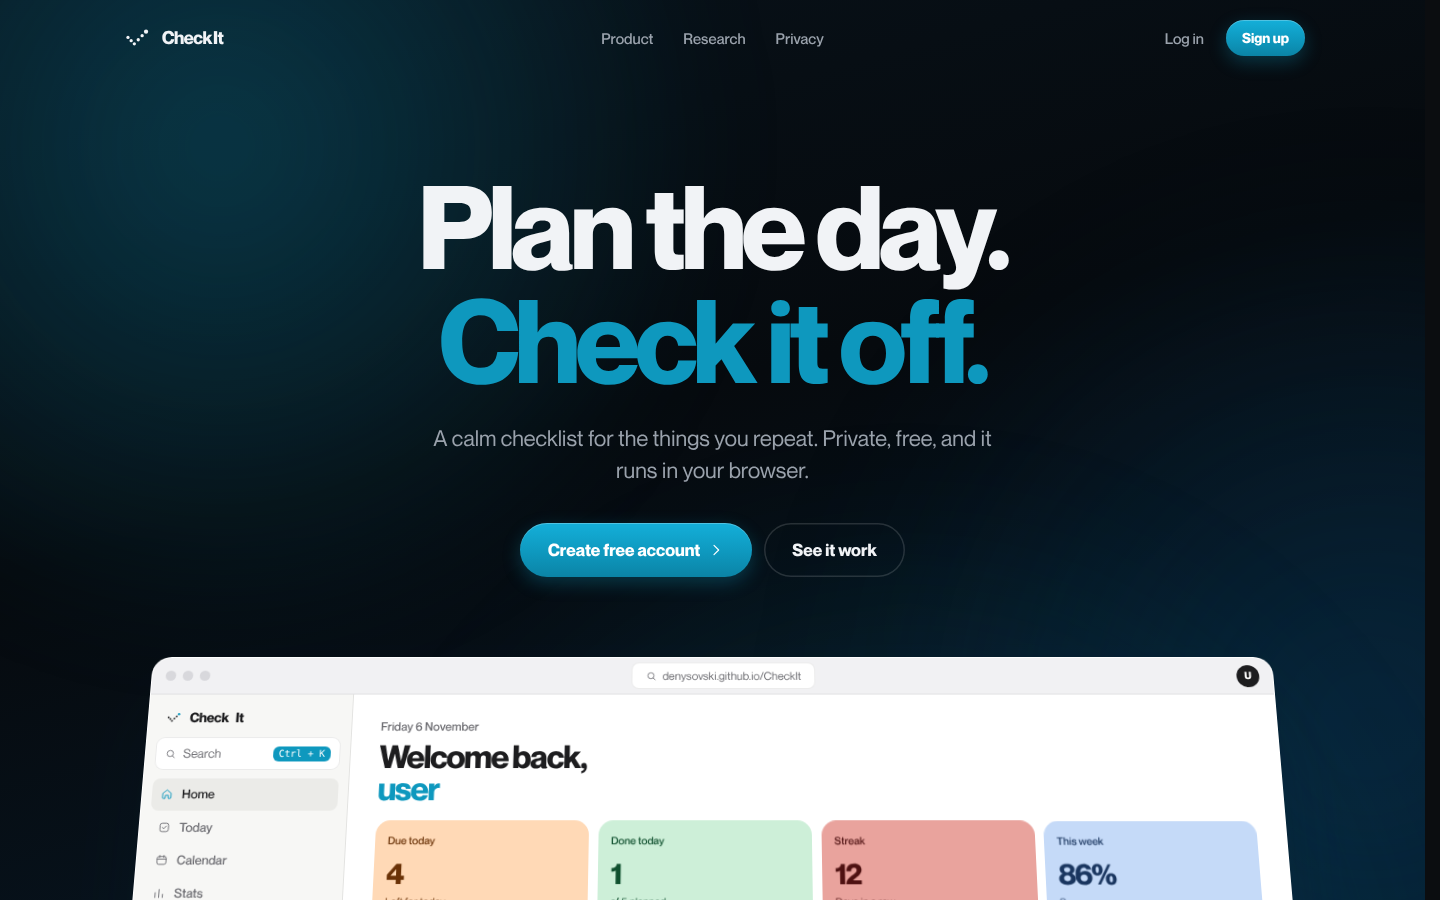
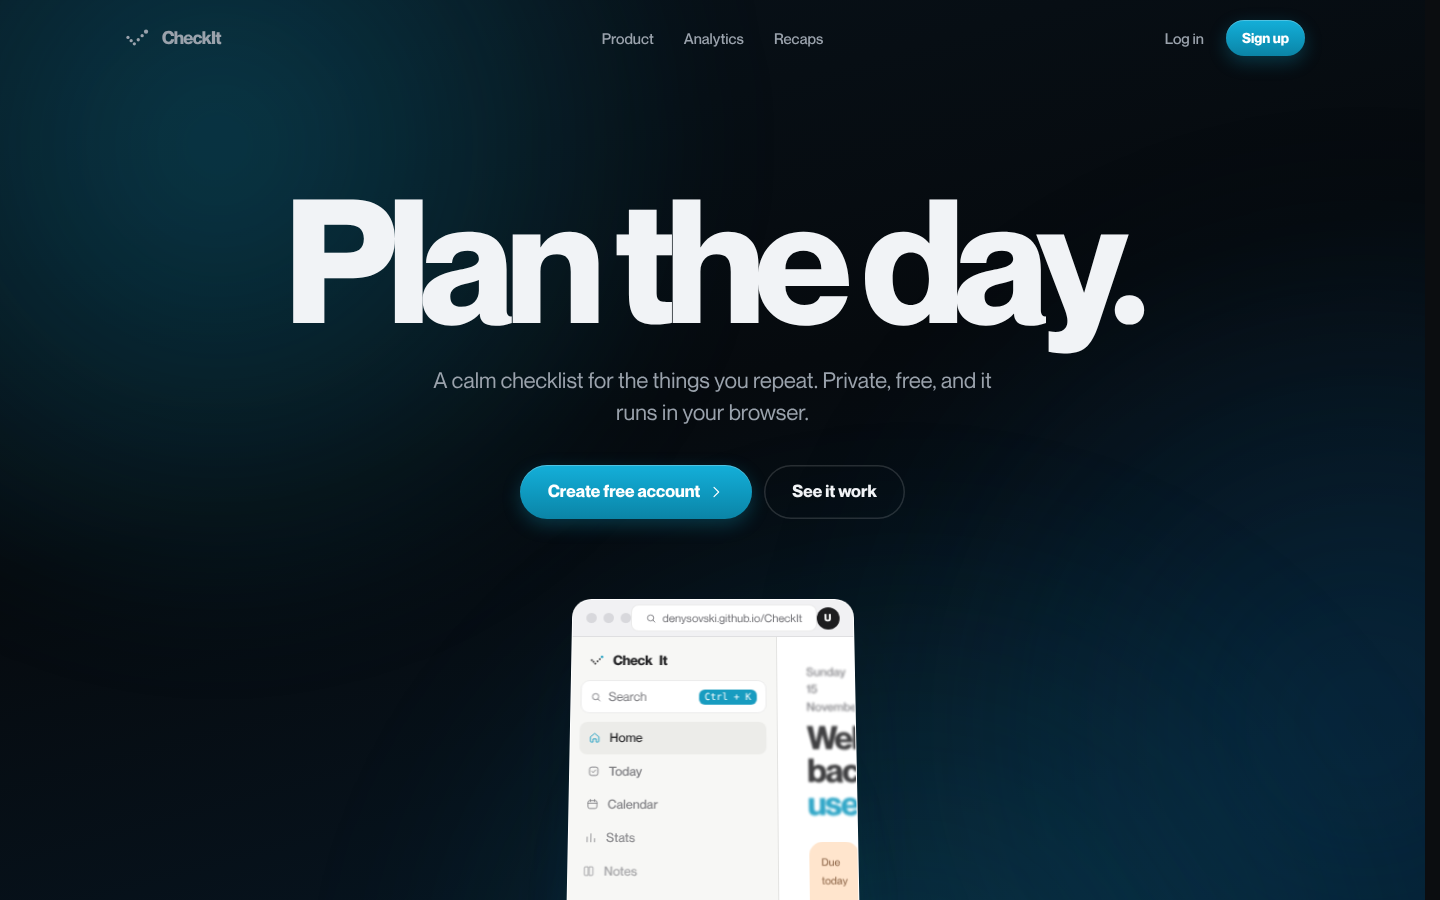
Landing: one headline, glowing demo, analytics and recap sections
- 'Plan the day.' as the only, much larger headline.
- Moving light around the live demo; the demo caption is now large,
  white and left-aligned under it.
- 'A week you can see.' bigger, with an Open the dashboard button.
- New: animated analytics donut (completed / still open / forgotten)
  and a wide 'recap every Monday' band with a 3D recap card.
- Removed research, privacy and final CTA sections and the footer
  wordmark. Back-to-top button. Wheel over the tilted cards now scrolls
  with Lenis. Nav returns to the top in stages over about a second.

Claude-Session: https://claude.ai/code/session_01Tmbk2fb3fpLgrpmgcPJTdW

Changed region(s): [[0.0938, 0.1867, 0.9062, 1.0], [0.4688, 0.0311, 0.5625, 0.0622], [0.0938, 0.0311, 0.1562, 0.0622]]

diff --git a/css/style.css b/css/style.css
@@ -3404,3 +3404,119 @@ html.sb-collapsed .sb-first-wrap { opacity: 0; pointer-events: none; }
 .journal .gx { --ink-2: rgba(255, 255, 255, .95); --ink-3: rgba(255, 255, 255, .88); }
 .journal .gx :is(.muted, .small, small, .j-label, .j-meter span, #j-save, .card-head span, .js-kpis span, .mc-col > span, .j-avg, .j-words-label, label > span) { color: #fff !important; opacity: 1; }
 .journal .gx .js-kpis b, .journal .gx .num { color: #fff !important; }
+
+/* =====================================================================
+   landing v3: one big headline, glowing demo, analytics + recaps
+   ===================================================================== */
+.lx-title { font-size: clamp(64px, 12vw, 176px) !important; line-height: .92 !important; letter-spacing: -.055em !important; }
+.lx-hero { padding-top: 180px; }
+
+/* moving light around the live demo */
+@property --ga2 { syntax: '<angle>'; inherits: false; initial-value: 0deg; }
+.lx-demo-glow { position: relative; max-width: max-content; margin: 0 auto; border-radius: 26px; isolation: isolate; }
+.lx-demo-glow::before { content: ""; position: absolute; inset: -3px; border-radius: 28px; z-index: -1;
+  background: conic-gradient(from var(--ga2), transparent 0deg, rgba(18, 170, 212, 0) 40deg, #12AAD4 90deg, #7FDDF5 120deg, rgba(18, 170, 212, 0) 170deg, transparent 360deg);
+  animation: demoRing 5s linear infinite; }
+.lx-demo-glow::after { content: ""; position: absolute; inset: -40px; border-radius: 60px; z-index: -2; pointer-events: none;
+  background: radial-gradient(60% 50% at 50% 50%, rgba(18, 170, 212, .32), transparent 70%); filter: blur(30px); animation: demoPulse 3.2s ease-in-out infinite; }
+@keyframes demoRing { to { --ga2: 360deg; } }
+@keyframes demoPulse { 0%, 100% { opacity: .45; transform: scale(.98); } 50% { opacity: .9; transform: scale(1.02); } }
+.lx-demo-glow .demo { margin: 0 !important; }
+.lx-caption, .lx-final, .lx-research, .lx-privacy, .lx-features, .lx-wordmark { display: none !important; }
+.lx-caption-big { max-width: 1200px; margin: 46px auto 0; padding: 0 24px; text-align: left; font-family: var(--display); font-weight: 700; letter-spacing: -.035em;
+  font-size: clamp(30px, 4.2vw, 56px); line-height: 1.05; color: #fff; }
+.lx-caption-big span { color: rgba(255, 255, 255, .5); }
+:root:not([data-theme="dark"]) .lx-caption-big { color: #0B0D10; }
+:root:not([data-theme="dark"]) .lx-caption-big span { color: #7A8590; }
+
+/* bigger section headings + button under copy */
+.lx-h2.big { font-size: clamp(44px, 6vw, 84px); }
+.lx-copy p { font-size: 21px; }
+.lx-copy-btn { margin-top: 30px; }
+.lx-split.rev { grid-template-columns: minmax(0, 1fr) minmax(0, 1fr); }
+
+/* analytics donut */
+.lx-donut-wrap { display: grid; place-items: center; padding: 40px 0; }
+.lx-donut { position: relative; width: min(360px, 78vw); aspect-ratio: 1; }
+.lx-donut svg { width: 100%; height: 100%; overflow: visible; }
+.dn-arc { opacity: 0; transition: opacity .6s var(--ease-out) var(--d), stroke-dasharray 1.2s var(--ease-out) var(--d); }
+.lx-donut.in .dn-arc { opacity: 1; }
+.dn-center { position: absolute; inset: 0; display: grid; place-content: center; text-align: center; }
+.dn-center b { font-family: var(--display); font-size: 64px; font-weight: 700; letter-spacing: -.05em; line-height: 1; color: var(--ink); }
+.dn-center span { color: var(--ink-2); font-size: 15px; }
+.dn-label { position: absolute; display: grid; grid-template-columns: auto auto; column-gap: 8px; align-items: center; padding: 10px 14px; border-radius: 16px; white-space: nowrap;
+  background: color-mix(in srgb, var(--ink) 6%, transparent); -webkit-backdrop-filter: blur(10px); backdrop-filter: blur(10px); opacity: 0; transform: translateY(8px); transition: opacity .6s var(--ease-out), transform .6s var(--ease-out); }
+.lx-donut.in .dn-label { opacity: 1; transform: none; }
+.lx-donut.in .dn-label.l2 { transition-delay: .25s; } .lx-donut.in .dn-label.l3 { transition-delay: .5s; }
+.dn-label i { grid-row: span 2; width: 10px; height: 10px; border-radius: 50%; }
+.dn-label b { font-family: var(--display); font-size: 22px; letter-spacing: -.03em; color: var(--ink); line-height: 1; }
+.dn-label span { font-size: 13px; color: var(--ink-2); grid-column: 2; }
+.dn-label::before { content: ""; position: absolute; height: 1px; width: 46px; background: color-mix(in srgb, var(--ink) 30%, transparent); top: 50%; }
+.dn-label.l1 { right: -46%; top: 18%; } .dn-label.l1::before { left: -46px; }
+.dn-label.l2 { left: -44%; bottom: 14%; } .dn-label.l2::before { right: -46px; }
+.dn-label.l3 { left: -40%; top: 8%; } .dn-label.l3::before { right: -46px; }
+.lx-points { list-style: none; padding: 0; margin: 28px 0 0; display: grid; gap: 12px; }
+.lx-points li { display: flex; flex-direction: column; padding: 14px 18px; border-radius: 16px; background: color-mix(in srgb, var(--ink) 5%, transparent); }
+.lx-points b { font-weight: 600; color: var(--ink); }
+.lx-points span { color: var(--ink-2); font-size: 15px; }
+
+/* recaps: wide band with a 3D recap card */
+.lx-recap-wide { max-width: 1200px; margin: 0 auto; padding: 60px; border-radius: 40px; display: grid; grid-template-columns: minmax(0, 1fr) minmax(0, 1fr); gap: 40px; align-items: center;
+  background: linear-gradient(150deg, rgba(6, 9, 12, .7) 0%, rgba(10, 34, 51, .8) 50%, rgba(8, 58, 91, .85) 100%); box-shadow: 0 40px 90px -40px rgba(3, 20, 32, .8); }
+.lx-recap-wide .lx-h2, .lx-recap-wide .lx-copy p { color: #fff; }
+.lx-recap-wide .lx-copy p { color: rgba(255, 255, 255, .72); }
+.rc3 { width: 440px; max-width: 100%; padding: 28px; border-radius: 32px; color: #0B0D10; background: #fff; transform: rotateX(var(--rx)) rotateY(var(--ry)) rotateZ(-5deg); transform-style: preserve-3d;
+  transition: transform .6s var(--ease-out); box-shadow: 40px 50px 90px -30px rgba(0, 0, 0, .6); }
+.lx-tilt-b { --rx: 10deg; --ry: 22deg; }
+.lx-tilt-b:hover .rc3 { transition: transform .15s linear; }
+.rc3-top { display: flex; justify-content: space-between; font-weight: 600; } .rc3-top em { font-style: normal; color: #7A8590; font-weight: 500; }
+.rc3-hero { margin: 18px 0; } .rc3-hero b { font-family: var(--display); font-size: 84px; font-weight: 700; letter-spacing: -.05em; line-height: 1; color: #0B6F95; }
+.rc3-hero b small { font-size: .45em; } .rc3-hero span { display: block; color: #5B6470; }
+.rc3-grid { display: grid; grid-template-columns: 1fr 1fr; gap: 8px; }
+.rc3-grid div { padding: 12px; border-radius: 14px; background: #F1F5F8; }
+.rc3-grid span { display: block; font-size: 12px; color: #7A8590; } .rc3-grid b { font-weight: 600; font-size: 14.5px; }
+.rc3-grid .good { background: #E3F6FB; } .rc3-grid .good b { color: #0B6F95; }
+.rc3-grid .bad { background: #FDEDEA; } .rc3-grid .bad b { color: #C9483D; }
+.rc3-tip { margin: 14px 0 0; padding: 12px 14px; border-radius: 14px; background: linear-gradient(135deg, #0B6F95, #083A5B); color: #fff; font-size: 14px; }
+.lx-recap-wide .rc3 { animation: rcFloat 6s ease-in-out infinite; }
+@keyframes rcFloat { 50% { translate: 0 -10px; } }
+
+/* back to top */
+.lx-top { position: fixed; right: 24px; bottom: 24px; z-index: 70; width: 52px; height: 52px; border-radius: 50%; display: grid; place-items: center; color: #fff;
+  background: linear-gradient(180deg, #14AFD9, #0B84A6); box-shadow: 0 12px 30px -8px rgba(14, 152, 190, .55); opacity: 0; transform: translateY(16px); pointer-events: none;
+  transition: opacity .45s var(--ease-out), transform .45s var(--ease-out), box-shadow .35s var(--ease-out); }
+.lx-top.on { opacity: 1; transform: none; pointer-events: auto; }
+.lx-top:hover { box-shadow: 0 0 0 6px rgba(14, 152, 190, .18), 0 12px 30px -8px rgba(14, 152, 190, .55); }
+
+/* nav: slow, staged return to the top (bg + colour first, then it widens) */
+.lx .l-nav { transition:
+  background-color .35s ease-out 0s, box-shadow .35s ease-out 0s,
+  top .65s cubic-bezier(.65,0,.35,1) .35s, left .65s cubic-bezier(.65,0,.35,1) .35s, right .65s cubic-bezier(.65,0,.35,1) .35s,
+  height .65s cubic-bezier(.65,0,.35,1) .35s, padding .65s cubic-bezier(.65,0,.35,1) .35s, border-radius .65s cubic-bezier(.65,0,.35,1) .35s !important; }
+.lx .l-nav.scrolled { transition:
+  top .55s cubic-bezier(.65,0,.35,1) 0s, left .55s cubic-bezier(.65,0,.35,1) 0s, right .55s cubic-bezier(.65,0,.35,1) 0s,
+  height .55s cubic-bezier(.65,0,.35,1) 0s, padding .55s cubic-bezier(.65,0,.35,1) 0s, border-radius .55s cubic-bezier(.65,0,.35,1) 0s,
+  background-color .35s ease-out .3s, box-shadow .35s ease-out .3s !important; }
+.lx .l-nav .brand-word, .lx .l-nav .l-links a, .lx .l-nav .l-login { color: #9AA2AC !important; transition: color .35s ease-out; }
+.lx .l-nav .logo-svg .ld { fill: #9AA2AC; transition: fill .35s ease-out; }
+.lx .l-nav .l-links a:hover, .lx .l-nav .l-login:hover { color: #fff !important; }
+:root:not([data-theme="dark"]) .lx .l-nav .brand-word, :root:not([data-theme="dark"]) .lx .l-nav .l-links a, :root:not([data-theme="dark"]) .lx .l-nav .l-login { color: #5B6470 !important; }
+:root:not([data-theme="dark"]) .lx .l-nav .logo-svg .ld { fill: #5B6470; }
+.lx .l-nav.scrolled .brand-word, .lx .l-nav.scrolled .l-links a, .lx .l-nav.scrolled .l-login { color: #0B0D10 !important; }
+.lx .l-nav.scrolled .logo-svg .ld { fill: #0B0D10; }
+
+@media (max-width: 860px) {
+  .lx-split.rev, .lx-recap-wide { grid-template-columns: minmax(0, 1fr); }
+  .lx-recap-wide { padding: 32px 22px; border-radius: 30px; }
+  .lx-donut-wrap { padding: 60px 0 20px; }
+  .dn-label.l1 { right: -6%; top: -12%; } .dn-label.l2 { left: -4%; bottom: -14%; } .dn-label.l3 { left: -4%; top: -12%; }
+  .dn-label::before { display: none; }
+  .lx-caption-big { margin-top: 30px; }
+  .lx-top { right: 16px; bottom: 16px; }
+}
+@media (prefers-reduced-motion: reduce) { .lx-demo-glow::before, .lx-demo-glow::after, .lx-recap-wide .rc3 { animation: none; } }
+.lx-demo-glow { width: min(1100px, 100%); max-width: none; }
+.lx-demo-glow .demo { width: 100% !important; max-width: none !important; }
+.dn-label.l1 { right: -14%; top: -4%; } .dn-label.l1::before { display: none; }
+.dn-label.l3 { left: -24%; top: 10%; } .dn-label.l2 { left: -24%; bottom: 8%; }
+.lx-analytics .lx-split { gap: 90px; }

diff --git a/js/landing.js b/js/landing.js
@@ -207,6 +207,38 @@ function ownStats() {
   } catch { return null; }
 }
 
+// Analytics donut: three arcs with leader lines and labels.
+function donutHTML() {
+  const R = 120; const C = 2 * Math.PI * R;
+  const segs = [[69, 'Completed', '#12AAD4'], [30, 'Still open', '#7FDDF5'], [1, 'Forgotten', '#FF9C8F']];
+  let off = 0;
+  const arcs = segs.map(([p, , c], i) => { const len = (p / 100) * C; const a = `<circle class="dn-arc" style="--d:${i * 0.25}s" cx="160" cy="160" r="${R}" fill="none" stroke="${c}" stroke-width="34" stroke-dasharray="${Math.max(len - 4, 2)} ${C}" stroke-dashoffset="${-off}" transform="rotate(-90 160 160)"/>`; off += len; return a; }).join('');
+  return `
+    <div class="lx-donut">
+      <svg viewBox="0 0 320 320"><circle cx="160" cy="160" r="${R}" fill="none" stroke="rgba(255,255,255,.07)" stroke-width="34"/>${arcs}</svg>
+      <div class="dn-center"><b>69%</b><span>this week</span></div>
+      <div class="dn-label l1"><i style="background:#12AAD4"></i><b>69%</b><span>Completed</span></div>
+      <div class="dn-label l2"><i style="background:#7FDDF5"></i><b>30%</b><span>Still open</span></div>
+      <div class="dn-label l3"><i style="background:#FF9C8F"></i><b>1%</b><span>Forgotten</span></div>
+    </div>`;
+}
+
+// Weekly recap card (3D, follows the pointer like the week card).
+function recapCardHTML() {
+  return `
+    <div class="rc3" aria-hidden="true">
+      <div class="rc3-top"><span>Week 45 recap</span><em>2 – 8 Nov</em></div>
+      <div class="rc3-hero"><b>86<small>%</small></b><span>of planned tasks done</span></div>
+      <div class="rc3-grid">
+        <div><span>Best day</span><b>Thursday</b></div>
+        <div><span>Earliest finish</span><b>06:48</b></div>
+        <div class="good"><span>Went well</span><b>Brush teeth, 14 of 14</b></div>
+        <div class="bad"><span>Slipped</span><b>Gym, 1 of 3</b></div>
+      </div>
+      <p class="rc3-tip">Try next week: book gym for Tuesday at 17:00.</p>
+    </div>`;
+}
+
 export function legalLinks(cls = '') {
   return `<a class="${cls}" href="#/privacy">Privacy</a><a class="${cls}" href="#/terms">Terms</a><a class="${cls}" href="#/cookies">Cookies</a>`;
 }
@@ -237,7 +269,6 @@ function footerHTML() {
           <div><h4>Social</h4>${SOCIAL.map(([n, u]) => `<a href="${u}" target="_blank" rel="noopener noreferrer">${n}</a>`).join('')}</div>
         </nav>
       </div>
-      <div class="lx-wordmark" aria-hidden="true">Check It</div>
       <div class="lx-foot-bottom">
         <span>© 2026 Check It. Designed and built by <a href="https://github.com/denysovski" target="_blank" rel="noopener noreferrer">denysovski</a>.</span>
         <span>A personal school project, not a commercial product.</span>
@@ -263,18 +294,17 @@ export function renderLanding({ loggedIn = false } = {}) {
   document.documentElement.classList.add('is-landing');
   const app = $('#app');
   const cta = loggedIn ? ['#/home', 'Open dashboard'] : ['#/signup', 'Create free account'];
-  const own = ownStats();
   app.innerHTML = `
   <div class="landing lx">
     <div class="lx-bg" aria-hidden="true"><i></i><i></i><i></i></div>
     <header class="l-nav">
       <a class="brand" href="#/" aria-label="Check It home"><span class="brand-mark">${logoMark('plain')}</span><span class="brand-word">Check<b>It</b></span></a>
-      <nav class="l-links" aria-label="Sections"><a href="#how" data-scroll>Product</a><a href="#research" data-scroll>Research</a><a href="#privacy" data-scroll>Privacy</a></nav>
+      <nav class="l-links" aria-label="Sections"><a href="#how" data-scroll>Product</a><a href="#analytics" data-scroll>Analytics</a><a href="#recaps" data-scroll>Recaps</a></nav>
       <div class="l-nav-actions">${loggedIn ? `<a class="btn pill small" href="#/home">Open dashboard</a>` : `<a class="l-login" href="#/login">Log in</a><a class="btn pill small" href="#/signup">Sign up</a>`}</div>
     </header>
 
     <section class="lx-hero">
-      <h1 class="lx-title">Plan the day.<br><span>Check it off.</span></h1>
+      <h1 class="lx-title">Plan the day.</h1>
       <p class="lx-sub">A calm checklist for the things you repeat. Private, free, and it runs in your browser.</p>
       <div class="lx-cta">
         <a class="btn pill large" href="${cta[0]}">${cta[1]} ${icon('chevR', 16)}</a>
@@ -283,46 +313,44 @@ export function renderLanding({ loggedIn = false } = {}) {
     </section>
 
     <section class="lx-stage" id="how" aria-label="Live product demo">
-      ${demoHTML()}
-      <p class="lx-caption">The real app, running on its own. Nothing here is a mock-up.</p>
+      <div class="lx-demo-glow">${demoHTML()}</div>
+      <p class="lx-caption-big">The real app, running on its own.<br><span>Nothing here is a mock-up.</span></p>
     </section>
 
     <section class="lx-band">
       <div class="lx-split">
         <div class="lx-copy">
-          <h2 class="lx-h2">A week you can see.</h2>
+          <h2 class="lx-h2 big">A week you can see.</h2>
           <p>Every day you finish fills a ring. Close all seven and the week is checked.</p>
+          <a class="btn pill large lx-copy-btn" href="${loggedIn ? '#/home' : '#/signup'}">Open the dashboard ${icon('chevR', 16)}</a>
         </div>
         <div class="lx-tilt" id="lx-tilt">${checkCardHTML()}</div>
       </div>
     </section>
 
-    <section class="lx-research" id="research">
-      <h2 class="lx-h2">Why writing it down works.</h2>
-      <div class="lx-rows">
-        ${RESEARCH.map(([big, unit, text, cite, url]) => `
-          <div class="lx-row">
-            <div class="lx-num"><b>${big}</b><span>${unit}</span></div>
-            <p>${text}</p>
-            <a href="${url}" target="_blank" rel="noopener noreferrer" class="lx-cite">${cite} ${icon('external', 12)}</a>
-          </div>`).join('')}
+    <section class="lx-band lx-analytics" id="analytics">
+      <div class="lx-split rev">
+        <div class="lx-donut-wrap" aria-hidden="true">${donutHTML()}</div>
+        <div class="lx-copy">
+          <h2 class="lx-h2 big">Know how you’re doing.</h2>
+          <p>Check It counts what you finish, what is still open and what slipped. Streaks, best days and your usual finish time, all from your own history.</p>
+          <ul class="lx-points">
+            <li><b>Done vs. planned</b><span>for every day and week</span></li>
+            <li><b>Most skipped</b><span>so you can make a task smaller</span></li>
+            <li><b>Best day and time</b><span>to plan around what works</span></li>
+          </ul>
+        </div>
       </div>
     </section>
 
-    <section class="lx-privacy" id="privacy">
-      <h2 class="lx-h2">Your data stays with you.</h2>
-      <p>No servers, no tracking, no ads. Tasks, notes and history are saved in this browser. Export a backup any time.</p>
-      <div class="lx-facts">
-        <div><b>0</b><span>servers storing your data</span></div>
-        <div><b>0</b><span>trackers or ads</span></div>
-        ${own ? `<div><b>${own.done.toLocaleString('en-GB')}</b><span>tasks you checked off here</span></div>` : '<div><b>1</b><span>file to back it all up</span></div>'}
+    <section class="lx-band lx-recaps" id="recaps">
+      <div class="lx-recap-wide">
+        <div class="lx-copy">
+          <h2 class="lx-h2 big">A recap every Monday.</h2>
+          <p>When a week ends, Check It writes it up for you: what went well, what slipped and one thing to try next. Save it, download it, read it back months later.</p>
+        </div>
+        <div class="lx-tilt lx-tilt-b" id="lx-tilt-b">${recapCardHTML()}</div>
       </div>
-      <a class="lx-link" href="#/privacy">Read the privacy policy ${icon('chevR', 14)}</a>
-    </section>
-
-    <section class="lx-final">
-      <h2 class="lx-h2">Start with one task.</h2>
-      <a class="btn pill large" href="${cta[0]}">${cta[1]} ${icon('chevR', 16)}</a>
     </section>
 
     ${footerHTML()}
@@ -361,14 +389,32 @@ export function renderLanding({ loggedIn = false } = {}) {
   window.addEventListener('scroll', onScroll, { passive: true });
   disposers.push(() => window.removeEventListener('scroll', onScroll));
   paint();
-  if (tilt && !still) {
-    tilt.addEventListener('pointermove', (e) => {
-      const r = tilt.getBoundingClientRect();
+  // both 3D cards lean towards the pointer; wheel scrolling over them stays smooth (Lenis)
+  if (!still) $$('.lx-tilt', root).forEach((t) => {
+    t.addEventListener('pointermove', (e) => {
+      const r = t.getBoundingClientRect();
       const x = (e.clientX - r.left) / r.width - 0.5; const y = (e.clientY - r.top) / r.height - 0.5;
-      tilt.style.setProperty('--ry', `${-24 + x * 26}deg`); tilt.style.setProperty('--rx', `${8 - y * 22}deg`);
+      t.style.setProperty('--ry', `${-24 + x * 26}deg`); t.style.setProperty('--rx', `${8 - y * 22}deg`);
     });
-    tilt.addEventListener('pointerleave', () => { tilt.style.removeProperty('--ry'); tilt.style.removeProperty('--rx'); paint(); });
-  }
+    t.addEventListener('pointerleave', () => { t.style.removeProperty('--ry'); t.style.removeProperty('--rx'); paint(); });
+  });
+
+  // donut draws itself once it scrolls into view
+  const donut = $('.lx-donut', root);
+  if (donut && 'IntersectionObserver' in window) {
+    const io = new IntersectionObserver((es) => es.forEach((en) => { if (en.isIntersecting) { donut.classList.add('in'); io.disconnect(); } }), { threshold: 0.35 });
+    io.observe(donut); disposers.push(() => io.disconnect());
+  } else if (donut) donut.classList.add('in');
+
+  // back to top
+  const top = document.createElement('button');
+  top.className = 'lx-top'; top.setAttribute('aria-label', 'Back to top'); top.innerHTML = icon('arrowUp', 20);
+  root.appendChild(top);
+  top.onclick = () => (window.__lenis ? window.__lenis.scrollTo(0, { duration: 1.4 }) : window.scrollTo({ top: 0, behavior: 'smooth' }));
+  const showTop = () => top.classList.toggle('on', window.scrollY > innerHeight * 0.8);
+  window.addEventListener('scroll', showTop, { passive: true });
+  disposers.push(() => window.removeEventListener('scroll', showTop));
+  showTop();
   bindFooter(root);
 
   $$('.dm-side > *', root).forEach((el, i) => el.style.setProperty('--k', i));

diff --git a/js/smooth.js b/js/smooth.js
@@ -3,7 +3,7 @@
 import { reducedMotion } from './ui.js';
 
 let lenis = null;
-const NATIVE = '.sheet-wrap, .palette, .pal, .popover, .menu, [data-lenis-prevent], .sb-mid, .pl-week, .pl-lib-list, .pl-pick, .icon-grid, .tp-col, .lx-tilt';
+const NATIVE = '.sheet-wrap, .palette, .pal, .popover, .menu, [data-lenis-prevent], .sb-mid, .pl-week, .pl-lib-list, .pl-pick, .icon-grid, .tp-col';
 
 export function initSmooth() {
   if (lenis || !window.Lenis) return;

diff --git a/sw.js b/sw.js
@@ -1,5 +1,5 @@
 // Check It service worker: offline cache + notifications.
-const CACHE = 'checkit-v39';
+const CACHE = 'checkit-v40';
 const ASSETS = [
   './', './index.html', './css/style.css', './manifest.webmanifest',
   './js/app.js', './js/store.js', './js/auth.js', './js/schedule.js', './js/icons.js',

diff --git a/README.md b/README.md
@@ -44,7 +44,7 @@ Small daily things are the easiest to skip , brushing teeth twice, interdental b
 
 A short, minimal page on a slowly moving blue-black background (light blue in light mode). The navigation turns into a white floating bar once you scroll. Under the headline a live copy of the dashboard plays on its own: a cursor ticks off tasks, types a new one, writes in a channel and opens the calendar. The demo tilts upright in 3D as it scrolls into view, and a large week card, leaning in perspective and following the pointer, fills its rings one day at a time.
 
-Further down, **Why writing it down works** lists three research results with links to the sources, and a privacy section states the plain facts (no servers, no trackers). There are no made-up user numbers. The footer has a newsletter field (there is no server yet, so it says so and points to GitHub releases), links to the **Terms**, **Privacy Policy** and **Cookies** pages (`#/terms`, `#/privacy`, `#/cookies`), the repository and social profiles.
+Further down: **A week you can see** (a big tilting week card and an *Open the dashboard* button), **Know how you’re doing** (an animated donut of completed, still open and forgotten tasks) and **A recap every Monday** (a wide band with a 3D recap card). The live demo has a moving light around it, a back-to-top button appears once you scroll, and the footer has a newsletter field, links to the **Terms**, **Privacy Policy** and **Cookies** pages (`#/terms`, `#/privacy`, `#/cookies`), the repository and social profiles.
 
 <img src="docs/screens/02-landing-research.png" alt="Research section">
 
